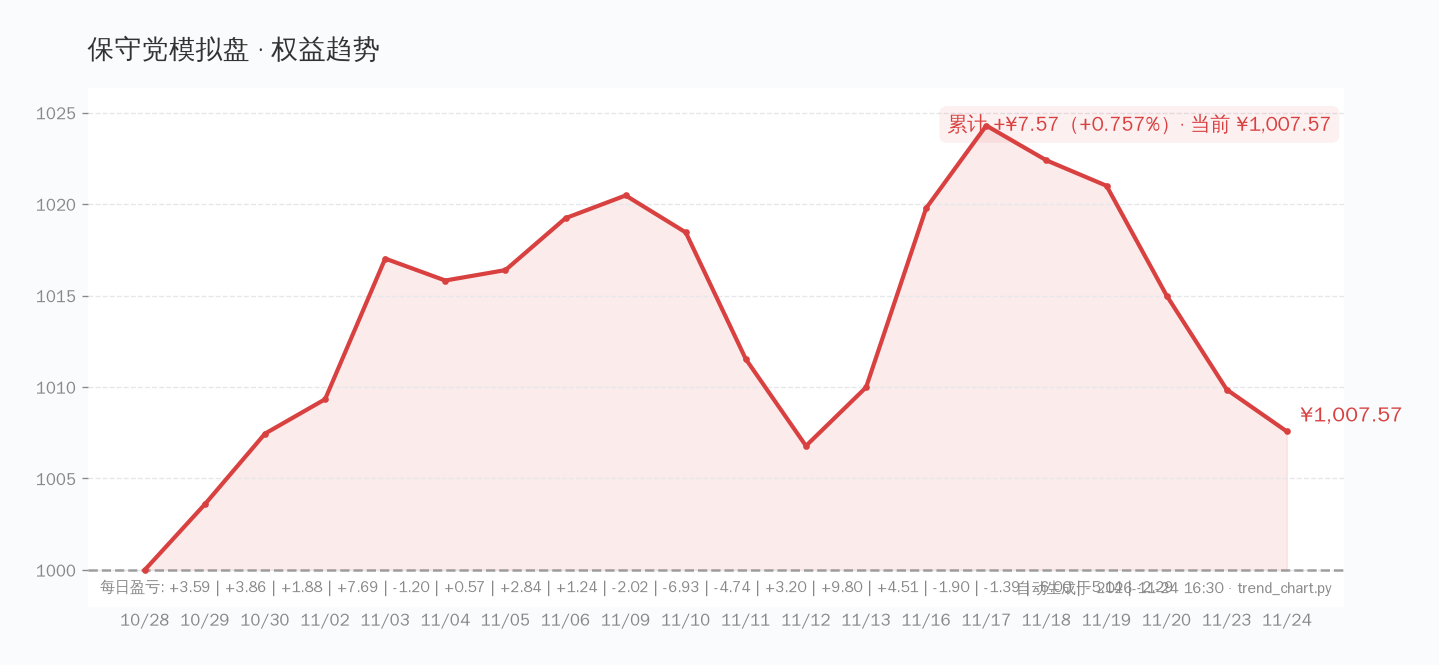
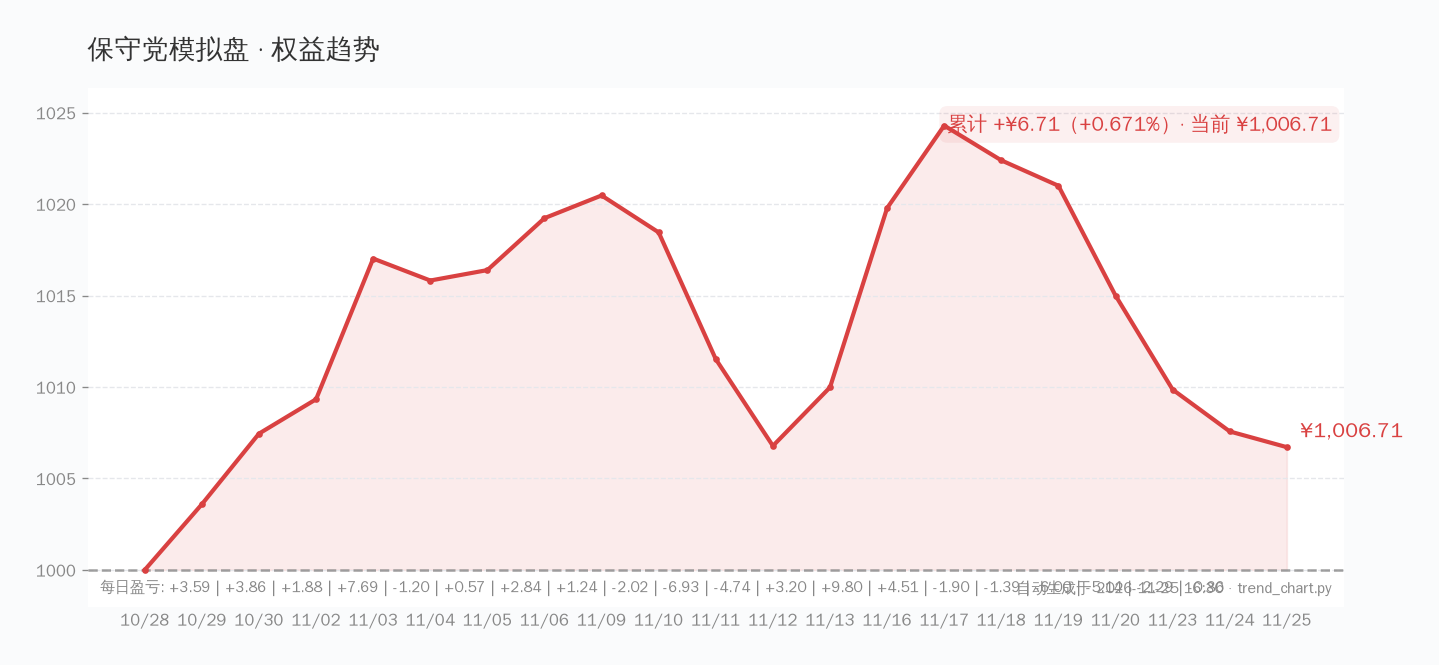
sim: trend chart update 2026-11-25 (equity ¥1,006.71)

diff --git a/sim/journal.md b/sim/journal.md
@@ -175,3 +175,11 @@
 - 现金 ¥273.96
 - 📝 自动收盘估值（看板 cron）
 
+## 2026-11-25 收盘
+
+- 总权益 **¥1006.71**（当日 -0.09% / 累计 +0.671%）
+- 红利低波100ETF景顺 1.469 (+0.20%)
+- 黄金ETF华安 7.169 (-3.00%)
+- 现金 ¥273.97
+- 📝 自动收盘估值（看板 cron）
+
